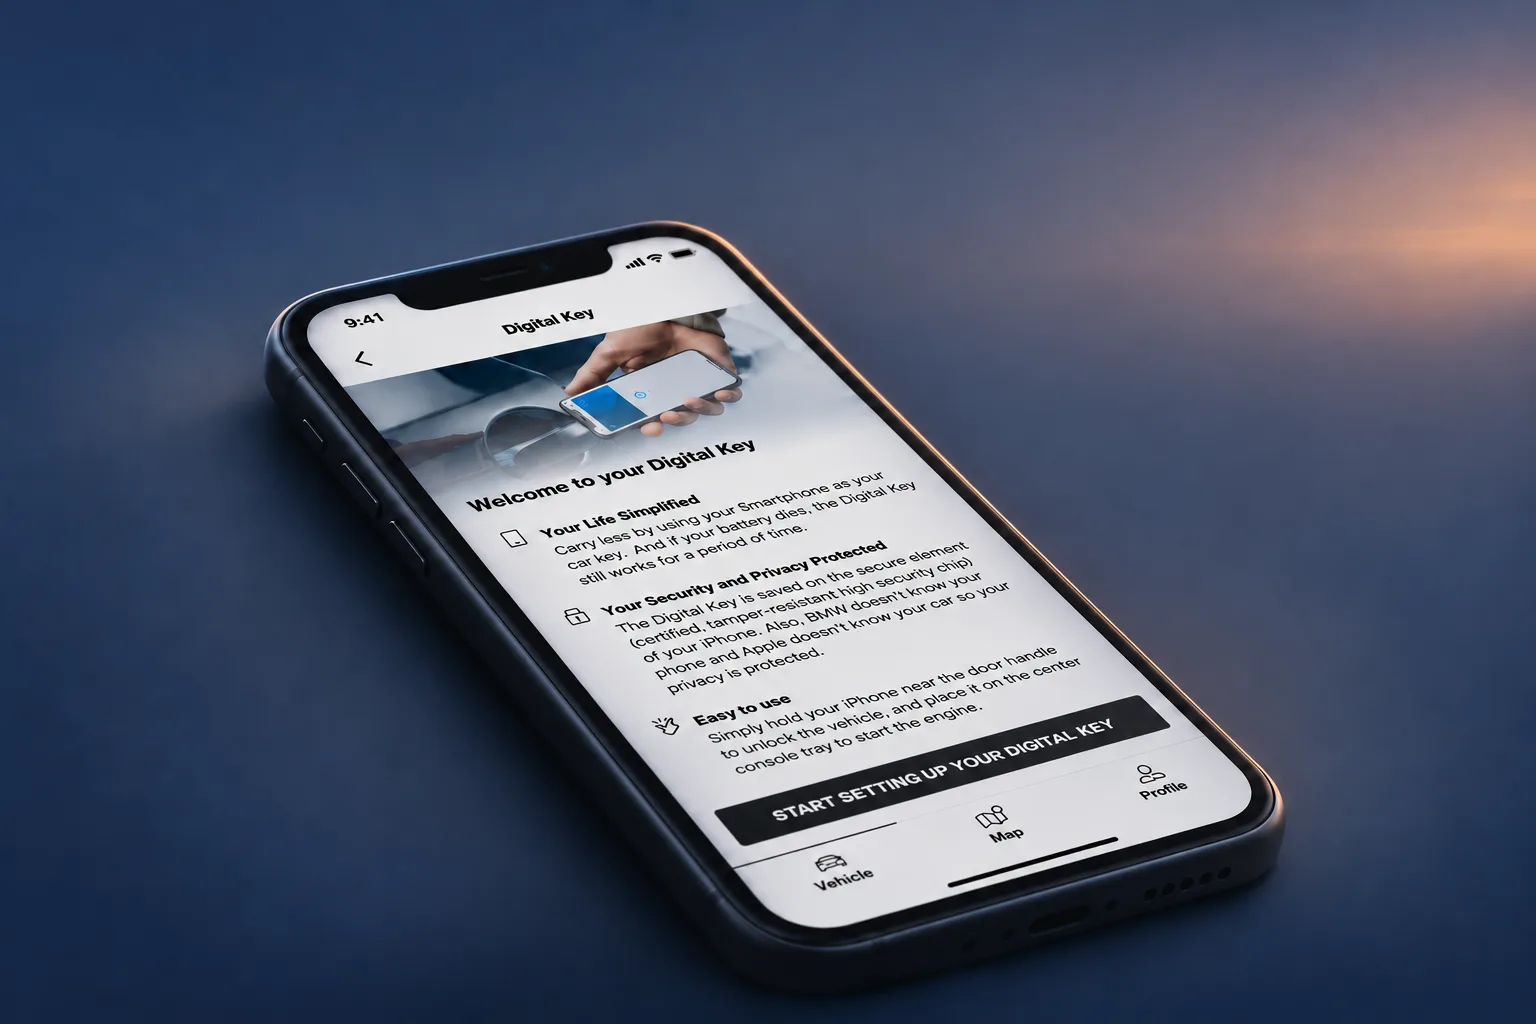
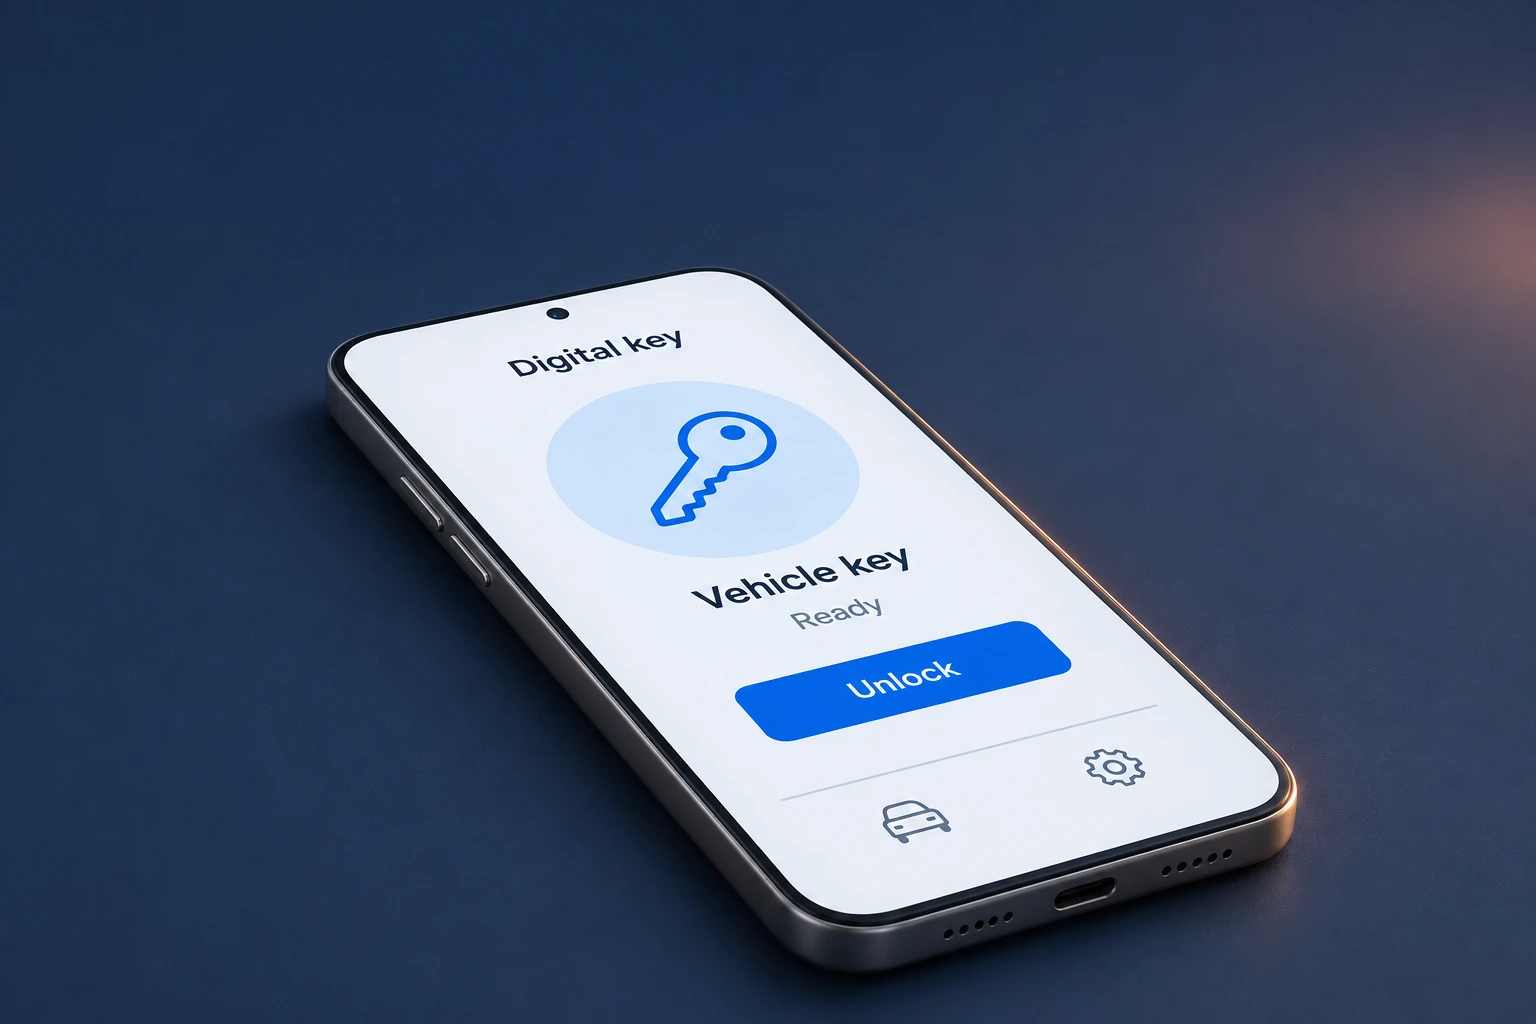
BMW v13: hero reconstruction caption (en/de, copy #15044), section-05 generic key illustration + caption/alt (visual #15047, copy #15049); no BMW press image

diff --git a/app/i18n/messages/bmw.ts b/app/i18n/messages/bmw.ts
@@ -19,6 +19,7 @@ export const bmw = {
     v13: {
       hero: {
         alt: "A silver BMW i4 Gran Coupé at an alpine overlook at sunset, next to the My BMW app on a phone.",
+        caption: "Recreated example with fictional data; no vehicle connected. Not an official BMW image.",
         eyebrow: "BMW DESIGN SYSTEM",
         title: "Many teams. One system.",
         sub: "A shared design language for the My BMW App.",
@@ -43,10 +44,10 @@ export const bmw = {
         scroll: "Scroll sideways to see the whole diagram",
       },
       key: {
-        alt: "The Digital Key welcome screen in the My BMW app on an iPhone.",
+        alt: "An illustration of a phone showing a generic digital key screen.",
         title: "The digital key, introduced at WWDC 2020.",
         sub: "Your phone as the car key, one of the app’s core features.",
-        caption: "Illustrative reconstruction · BMW press image, December 2020",
+        caption: "Illustrative example with a fictional interface. Not an official BMW image.",
       },
       docs: {
         title: "Every widget has a number.",
@@ -79,6 +80,7 @@ export const bmw = {
     v13: {
       hero: {
         alt: "Ein silberner BMW i4 Gran Coupé an einem Aussichtspunkt in den Alpen bei Sonnenuntergang, daneben die My BMW App auf einem Telefon.",
+        caption: "Nachgebautes Beispiel mit fiktiven Daten; kein Fahrzeug verbunden. Kein offizielles BMW-Bild.",
         eyebrow: "BMW DESIGN SYSTEM",
         title: "Viele Teams. Ein System.",
         sub: "Eine gemeinsame Designsprache für die My BMW App.",
@@ -103,10 +105,10 @@ export const bmw = {
         scroll: "Seitlich scrollen, um das ganze Diagramm zu sehen",
       },
       key: {
-        alt: "Der Willkommensbildschirm des Digital Key in der My BMW App auf einem iPhone.",
+        alt: "Eine Illustration eines Telefons mit einem generischen Digital-Key-Bildschirm.",
         title: "Der digitale Schlüssel, vorgestellt auf der WWDC 2020.",
         sub: "Das Telefon als Autoschlüssel, eine der Kernfunktionen der App.",
-        caption: "Illustrative Rekonstruktion · BMW Pressebild, Dezember 2020",
+        caption: "Illustratives Beispiel mit fiktiver Oberfläche. Kein offizielles BMW-Bild.",
       },
       docs: {
         title: "Jedes Widget hat eine Nummer.",

diff --git a/app/bmw-design-system/v13.css b/app/bmw-design-system/v13.css
@@ -11,6 +11,7 @@
 /* 01 hero (art 1536x1024) */
 .v13-hero{aspect-ratio:3/2}
 .v13-hero .v13-bg{background-image:url(/assets/images/bmw-system/v13/hero.webp);-webkit-mask-image:linear-gradient(to bottom,#000 97%,transparent);mask-image:linear-gradient(to bottom,#000 97%,transparent)}
+.v13-hero .v13-hero-caption{top:63.4cqw;left:5.6cqw;right:5.6cqw;font-size:1.15cqw}
 .v13-hero-head{position:absolute;left:5.6cqw;top:51.5cqw}
 .v13-eyebrow{font-size:1.278cqw;line-height:1.4;letter-spacing:.08em;font-weight:600;color:#5b8def}
 .v13-hero h1{margin:.45cqw 0 0;font-size:4.444cqw;line-height:1.1;font-weight:600;letter-spacing:-.01em}
@@ -107,6 +108,7 @@
   .v13-bg{position:static;display:block}
   .v13-hero{padding-bottom:36px}
   .v13-hero .v13-bg{aspect-ratio:1536/790;background-size:100% auto;background-position:top}
+  .v13-hero .v13-hero-caption{position:static;padding:0 20px;margin-top:8px;font-size:13px}
   .v13-hero-head{position:static;padding:0 20px;margin-top:10px}
   .v13-eyebrow{font-size:13px}
   .v13-hero h1{font-size:clamp(32px,9vw,48px);margin-top:6px;line-height:1.08}

diff --git a/app/bmw-design-system/BMWSystemV13.tsx b/app/bmw-design-system/BMWSystemV13.tsx
@@ -17,6 +17,7 @@ function HeroSection() {
   return (
     <section className="v13-hero" aria-label={t('bmw.v13.hero.alt')}>
       <div className="v13-bg" role="img" aria-label={t('bmw.v13.hero.alt')} />
+      <p className="v13-caption v13-hero-caption">{t('bmw.v13.hero.caption')}</p>
       <header className="v13-hero-head">
         <p className="v13-eyebrow">{t('bmw.v13.hero.eyebrow')}</p>
         <h1>{t('bmw.v13.hero.title')}</h1>
